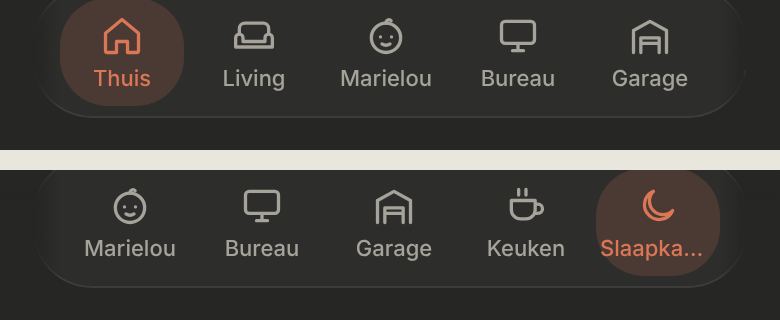
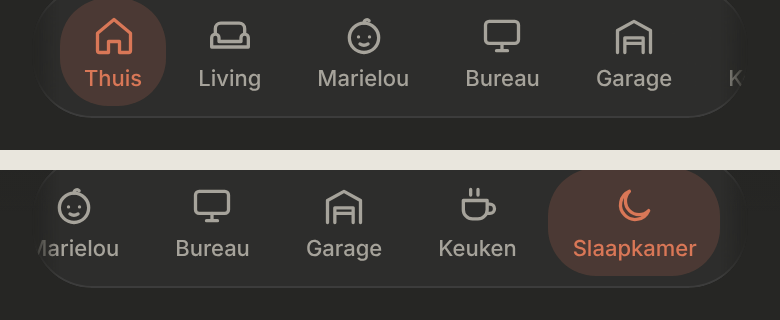
Compact nav: items as wide as their name, real padding in the active state
The fixed 62px width cut long names off with an ellipsis and left the
active highlight with 2px of side padding. Items are now as wide as
their name plus 12px on both sides (at least 52px).

Claude-Session: https://claude.ai/code/session_01KM6EwXvT22zbGn1J5Xot1E

diff --git a/src/styles.css b/src/styles.css
@@ -304,12 +304,13 @@ button.quick-card:active { transform: scale(0.97); }
   appearance: none;
   border: 0;
   flex: none;
-  width: 62px;
+  /* As wide as its name, so nothing is cut off; short names stay easy to tap. */
+  min-width: 52px;
   display: flex;
   flex-direction: column;
   align-items: center;
   gap: 3px;
-  padding: 8px 2px 7px;
+  padding: 8px 12px 7px;
   border-radius: 24px;
   background: transparent;
   color: var(--text-muted);
@@ -321,8 +322,6 @@ button.quick-card:active { transform: scale(0.97); }
 }
 
 .bottom-nav__item .icon { width: 22px; height: 22px; }
-/* A long room name is cut off rather than widening the item. */
-.bottom-nav__item span { max-width: 100%; overflow: hidden; text-overflow: ellipsis; }
 
 .bottom-nav__item[aria-current='page'] {
   background: var(--accent-soft);

diff --git a/docs/design/bottom-nav/README.md b/docs/design/bottom-nav/README.md
@@ -16,10 +16,10 @@ As built (dev mode, with two extra example rooms to show the overflow):
 
 ## Design (B)
 
-- **Stacked items:** the icon (22px) above a small name (11px, medium weight), centred. Every item has the same fixed width (62px), so about 5½ items fit on a 390px-wide phone (the current bar fits about 3½).
+- **Stacked items:** the icon (22px) above a small name (11px, medium weight), centred. Each item is **as wide as its name** plus 12px on both sides (at least 52px), so about 5 items fit on a 390px-wide phone (the old bar fits about 3½). *Changed during the build:* a fixed width of 62px cut long names off ("Slaapka…") and left the active highlight almost no padding.
 - **Active item:** the orange tint of the room tabs, a soft orange area (`--accent-soft`) with the icon and name in orange (`--accent`). Rounded (24px) inside the bar.
 - **The bar** keeps its look: the glassy pill with blur, now with a slightly smaller corner radius (30px) for the taller items.
-- **Inside padding of 14px** left and right, as wide as the edge fades, so the first and last item are never dimmed. A name longer than the item (about 9 letters, e.g. "Slaapkamer") is cut off with "…".
+- **Inside padding of 14px** left and right, as wide as the edge fades, so the first and last item are never dimmed. Names are never cut off.
 - **Overflow stays as it is:** with more rooms than fit, the bar scrolls sideways, with soft fades on the edges, and the active item is scrolled into view.
 - Tap gives the same selection haptic as now.
 
